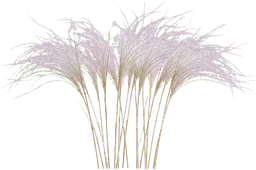
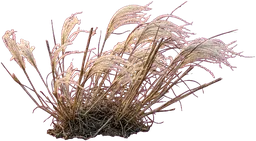
Regenerate the ten flora plates as field-grown clumps, not studio specimens
Irregular asymmetric silhouettes with gaps and stragglers, mixed blade
condition (bent, dried, nibbled), stray neighbour species woven in, a small
soil and thatch base so plants sit planted, and directional outdoor sunlight
instead of flat studio light - so they paste into meadows, banks and gardens
and read as part of the field. Same ids, rigs and sway; catalog sizes updated.

diff --git a/docs/ASSET_CATALOG.md b/docs/ASSET_CATALOG.md
@@ -366,16 +366,16 @@ The same layout exists on disk as `public/library/<style>/<layer>/`.
 | <img src="../public/library/realistic/foreground/thumbs/stone-fireplace.webp" width="96" alt="Real Stone Fireplace"> | Real Stone Fireplace | interiors | painted | 1400×767 | [`realistic/foreground/stone-fireplace.webp`](../public/library/realistic/foreground/stone-fireplace.webp) |
 | <img src="../public/library/realistic/foreground/thumbs/woodstone-lounge.webp" width="96" alt="Wood and Stone Lounge"> | Wood and Stone Lounge | interiors | painted | 1376×768 | [`realistic/foreground/woodstone-lounge.webp`](../public/library/realistic/foreground/woodstone-lounge.webp) |
 | <img src="../public/library/realistic/foreground/thumbs/reeds.webp" width="96" alt="Reeds at the Water's Edge"> | Reeds at the Water's Edge | plants | painted | 1055×749 | [`realistic/foreground/reeds.webp`](../public/library/realistic/foreground/reeds.webp) |
-| <img src="../public/library/realistic/foreground/thumbs/meadow-grass-tuft.webp" width="96" alt="Meadow Grass Tuft"> | Meadow Grass Tuft | plants | generated | 1211×696 | [`realistic/foreground/meadow-grass-tuft.webp`](../public/library/realistic/foreground/meadow-grass-tuft.webp) |
-| <img src="../public/library/realistic/foreground/thumbs/tall-wild-grass.webp" width="96" alt="Tall Wild Grass"> | Tall Wild Grass | plants | generated | 1210×678 | [`realistic/foreground/tall-wild-grass.webp`](../public/library/realistic/foreground/tall-wild-grass.webp) |
-| <img src="../public/library/realistic/foreground/thumbs/feather-grass-plumes.webp" width="96" alt="Feather Grass Plumes"> | Feather Grass Plumes | plants | generated | 1064×705 | [`realistic/foreground/feather-grass-plumes.webp`](../public/library/realistic/foreground/feather-grass-plumes.webp) |
-| <img src="../public/library/realistic/foreground/thumbs/golden-oat-spikes.webp" width="96" alt="Golden Oat Spikes"> | Golden Oat Spikes | plants | generated | 464×684 | [`realistic/foreground/golden-oat-spikes.webp`](../public/library/realistic/foreground/golden-oat-spikes.webp) |
-| <img src="../public/library/realistic/foreground/thumbs/bronze-sedge-tuft.webp" width="96" alt="Bronze Sedge Tuft"> | Bronze Sedge Tuft | plants | generated | 1286×716 | [`realistic/foreground/bronze-sedge-tuft.webp`](../public/library/realistic/foreground/bronze-sedge-tuft.webp) |
-| <img src="../public/library/realistic/foreground/thumbs/blue-fescue-mound.webp" width="96" alt="Blue Fescue Mound"> | Blue Fescue Mound | plants | generated | 1306×679 | [`realistic/foreground/blue-fescue-mound.webp`](../public/library/realistic/foreground/blue-fescue-mound.webp) |
-| <img src="../public/library/realistic/foreground/thumbs/fountain-grass-plumes.webp" width="96" alt="Fountain Grass Plumes"> | Fountain Grass Plumes | plants | generated | 867×677 | [`realistic/foreground/fountain-grass-plumes.webp`](../public/library/realistic/foreground/fountain-grass-plumes.webp) |
-| <img src="../public/library/realistic/foreground/thumbs/dew-grass-blades.webp" width="96" alt="Dew Grass Blades"> | Dew Grass Blades | plants | generated | 1278×640 | [`realistic/foreground/dew-grass-blades.webp`](../public/library/realistic/foreground/dew-grass-blades.webp) |
-| <img src="../public/library/realistic/foreground/thumbs/wheat-grass-spikes.webp" width="96" alt="Wheat Grass Spikes"> | Wheat Grass Spikes | plants | generated | 882×707 | [`realistic/foreground/wheat-grass-spikes.webp`](../public/library/realistic/foreground/wheat-grass-spikes.webp) |
-| <img src="../public/library/realistic/foreground/thumbs/red-poppy-cluster.webp" width="96" alt="Red Poppy Cluster"> | Red Poppy Cluster | plants | generated | 717×697 | [`realistic/foreground/red-poppy-cluster.webp`](../public/library/realistic/foreground/red-poppy-cluster.webp) |
+| <img src="../public/library/realistic/foreground/thumbs/meadow-grass-tuft.webp" width="96" alt="Meadow Grass Tuft"> | Meadow Grass Tuft | plants | generated | 1347×756 | [`realistic/foreground/meadow-grass-tuft.webp`](../public/library/realistic/foreground/meadow-grass-tuft.webp) |
+| <img src="../public/library/realistic/foreground/thumbs/tall-wild-grass.webp" width="96" alt="Tall Wild Grass"> | Tall Wild Grass | plants | generated | 1368×742 | [`realistic/foreground/tall-wild-grass.webp`](../public/library/realistic/foreground/tall-wild-grass.webp) |
+| <img src="../public/library/realistic/foreground/thumbs/feather-grass-plumes.webp" width="96" alt="Feather Grass Plumes"> | Feather Grass Plumes | plants | generated | 1270×698 | [`realistic/foreground/feather-grass-plumes.webp`](../public/library/realistic/foreground/feather-grass-plumes.webp) |
+| <img src="../public/library/realistic/foreground/thumbs/golden-oat-spikes.webp" width="96" alt="Golden Oat Spikes"> | Golden Oat Spikes | plants | generated | 1339×682 | [`realistic/foreground/golden-oat-spikes.webp`](../public/library/realistic/foreground/golden-oat-spikes.webp) |
+| <img src="../public/library/realistic/foreground/thumbs/bronze-sedge-tuft.webp" width="96" alt="Bronze Sedge Tuft"> | Bronze Sedge Tuft | plants | generated | 1356×702 | [`realistic/foreground/bronze-sedge-tuft.webp`](../public/library/realistic/foreground/bronze-sedge-tuft.webp) |
+| <img src="../public/library/realistic/foreground/thumbs/blue-fescue-mound.webp" width="96" alt="Blue Fescue Mound"> | Blue Fescue Mound | plants | generated | 1341×697 | [`realistic/foreground/blue-fescue-mound.webp`](../public/library/realistic/foreground/blue-fescue-mound.webp) |
+| <img src="../public/library/realistic/foreground/thumbs/fountain-grass-plumes.webp" width="96" alt="Fountain Grass Plumes"> | Fountain Grass Plumes | plants | generated | 1326×709 | [`realistic/foreground/fountain-grass-plumes.webp`](../public/library/realistic/foreground/fountain-grass-plumes.webp) |
+| <img src="../public/library/realistic/foreground/thumbs/dew-grass-blades.webp" width="96" alt="Dew Grass Blades"> | Dew Grass Blades | plants | generated | 1352×724 | [`realistic/foreground/dew-grass-blades.webp`](../public/library/realistic/foreground/dew-grass-blades.webp) |
+| <img src="../public/library/realistic/foreground/thumbs/wheat-grass-spikes.webp" width="96" alt="Wheat Grass Spikes"> | Wheat Grass Spikes | plants | generated | 1355×709 | [`realistic/foreground/wheat-grass-spikes.webp`](../public/library/realistic/foreground/wheat-grass-spikes.webp) |
+| <img src="../public/library/realistic/foreground/thumbs/red-poppy-cluster.webp" width="96" alt="Red Poppy Cluster"> | Red Poppy Cluster | plants | generated | 1048×730 | [`realistic/foreground/red-poppy-cluster.webp`](../public/library/realistic/foreground/red-poppy-cluster.webp) |
 | <img src="../public/library/realistic/foreground/thumbs/river-stones.webp" width="96" alt="Wet River Stones"> | Wet River Stones | rocks | painted | 1197×676 | [`realistic/foreground/river-stones.webp`](../public/library/realistic/foreground/river-stones.webp) |
 | <img src="../public/library/realistic/foreground/thumbs/water-surface.webp" width="96" alt="Clear Water Surface"> | Clear Water Surface | water | painted | 1408×768 | [`realistic/foreground/water-surface.webp`](../public/library/realistic/foreground/water-surface.webp) |
 | <img src="../public/library/realistic/foreground/thumbs/shallow-ripples.webp" width="96" alt="Shallow Ripples and Caustics"> | Shallow Ripples and Caustics | water | painted | 1408×768 | [`realistic/foreground/shallow-ripples.webp`](../public/library/realistic/foreground/shallow-ripples.webp) |
